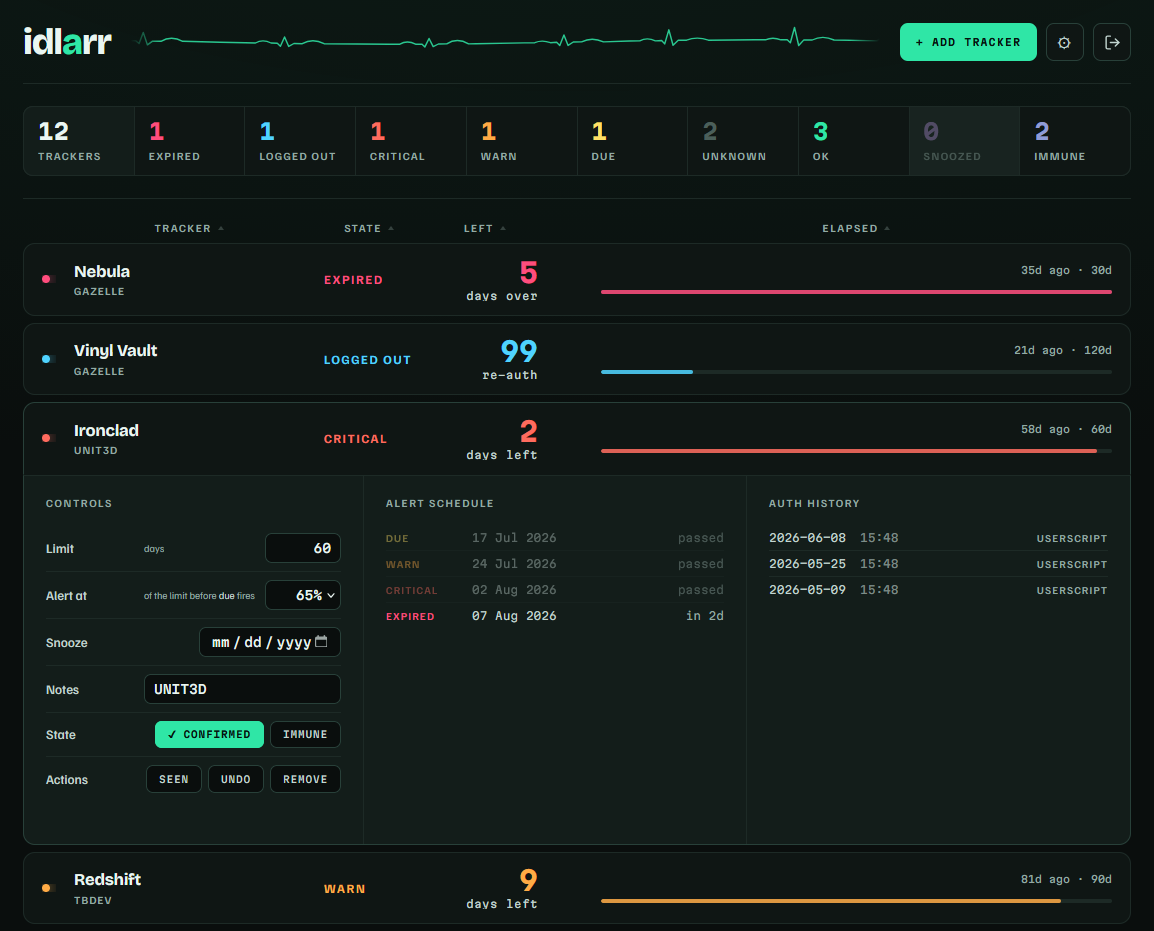
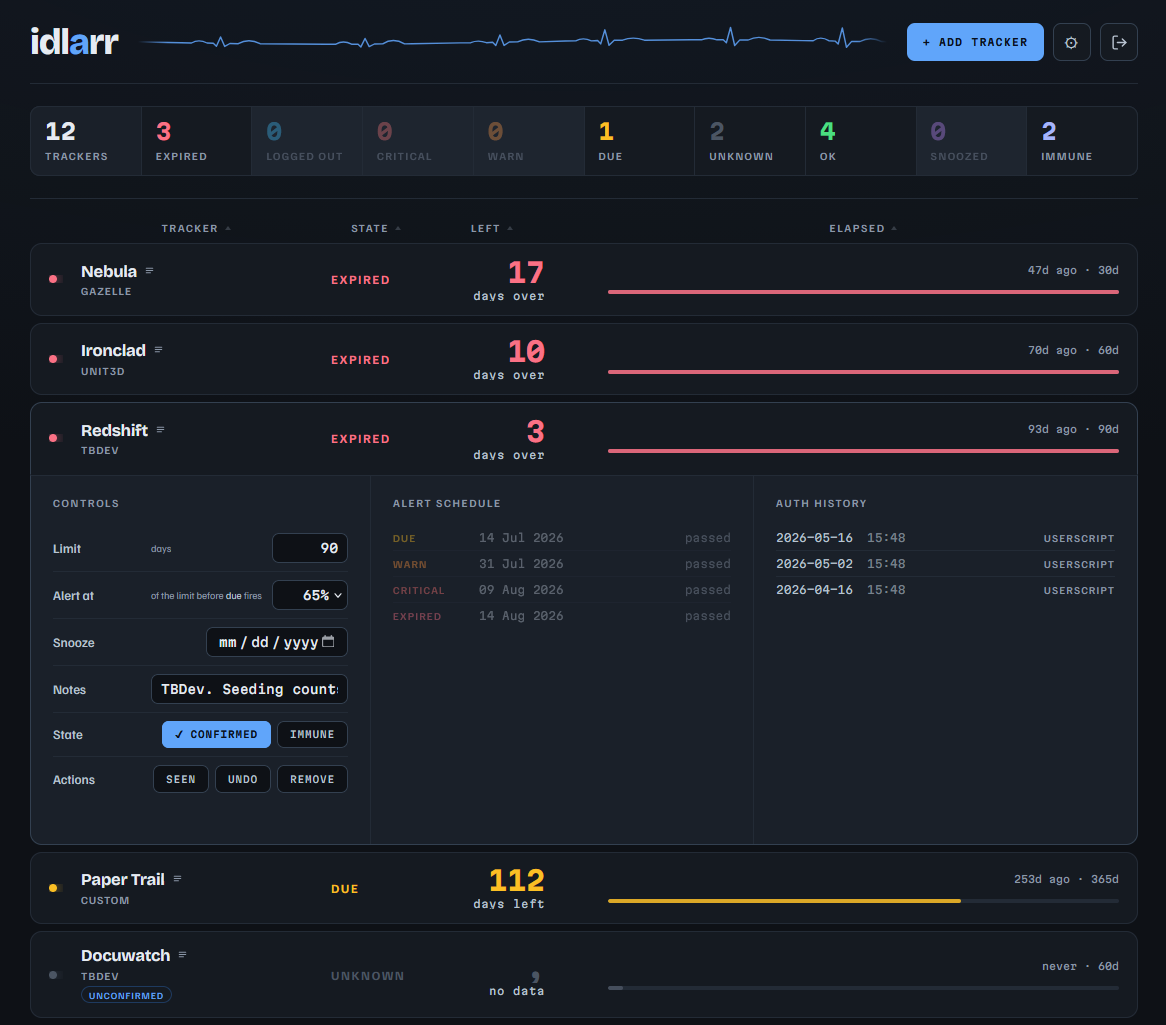
Put a snoozed row in the demo, and stop the ladder test lying
The demo seed says it shows every state on the ladder and never showed
snoozed, because no tracker in it was snoozed. The test agreed with the code
rather than the claim: it compared against a written-out set of eight states
that simply omitted the ninth, so both were wrong together and neither could
notice.

It derives from RANK now, so a state that exists but is never seeded fails,
and adding a tenth would fail the same way.

The snooze date is computed at seed time rather than written into the YAML. A
literal date would show snoozed for a while and then quietly stop, which is
exactly the drift that produced the screenshot this came out of: a demo
database reused thirteen days after it was seeded had aged critical, warn and
logged out into expired, leaving four rungs empty.

There is a guard for that specifically: the shipped date must still be in the
future.

diff --git a/tests/test_demo_seed.py b/tests/test_demo_seed.py
@@ -11,6 +11,7 @@ Run:  .venv/bin/python -m pytest test_demo_seed.py -q
 
 import importlib.util
 import os
+import re
 import sqlite3
 import tempfile
 from pathlib import Path
@@ -65,9 +66,25 @@ def test_every_state_on_the_ladder_is_represented(seeded, monkeypatch):
     monkeypatch.setattr(app, "CONFIG_PATH", seeded / "config" / "trackers.yml")
     app._cfg_cache["data"] = None
     states = {r["state"] for r in app.statuses()}
-    assert states == {"expired", "critical", "warn", "due", "session",
-                      "ok", "unknown", "immune"}
+    # Derived from RANK, not a written-out list. The hardcoded set omitted
+    # `snoozed` and passed anyway, so the fixture claimed every rung while
+    # missing one; adding a tenth state would have gone the same way.
+    assert states == set(app.RANK), \
+        f"the demo never shows: {sorted(set(app.RANK) - states)}"
     app._cfg_cache["data"] = None
+
+
+def test_the_snooze_date_is_computed_not_hardcoded(seeded):
+    """A literal date in demo-trackers.yml would rot: the demo would show
+    `snoozed` for a while and then quietly stop, which is exactly the drift
+    that made a reused demo database show four empty rungs."""
+    import datetime
+    raw = (seeded / "config" / "trackers.yml").read_text()
+    assert "__SNOOZE__" not in raw, "the placeholder was never substituted"
+    m = re.search(r'snooze_until:\s*"(\d{4}-\d{2}-\d{2})"', raw)
+    assert m, "no snoozed tracker in the demo config"
+    assert datetime.date.fromisoformat(m.group(1)) > datetime.date.today(), \
+        "the demo ships a snooze date that has already passed"
 
 
 def test_the_demo_config_names_no_real_tracker(seeded):

diff --git a/tools/demo-seed.py b/tools/demo-seed.py
@@ -71,7 +71,12 @@ def main(target: Path) -> None:
     data, config = target / "data", target / "config"
     data.mkdir(parents=True, exist_ok=True)
     config.mkdir(parents=True, exist_ok=True)
-    shutil.copy(HERE / "demo-trackers.yml", config / "trackers.yml")
+    # Dates are written relative to NOW, same as the events below. The seed
+    # claims to show every state on the ladder, and a hardcoded snooze date
+    # would make that true only until it passed.
+    snooze = (datetime.now(timezone.utc) + timedelta(days=21)).date().isoformat()
+    (config / "trackers.yml").write_text(
+        (HERE / "demo-trackers.yml").read_text().replace("__SNOOZE__", snooze))
 
     db = data / "idlarr.db"
     if db.exists():
